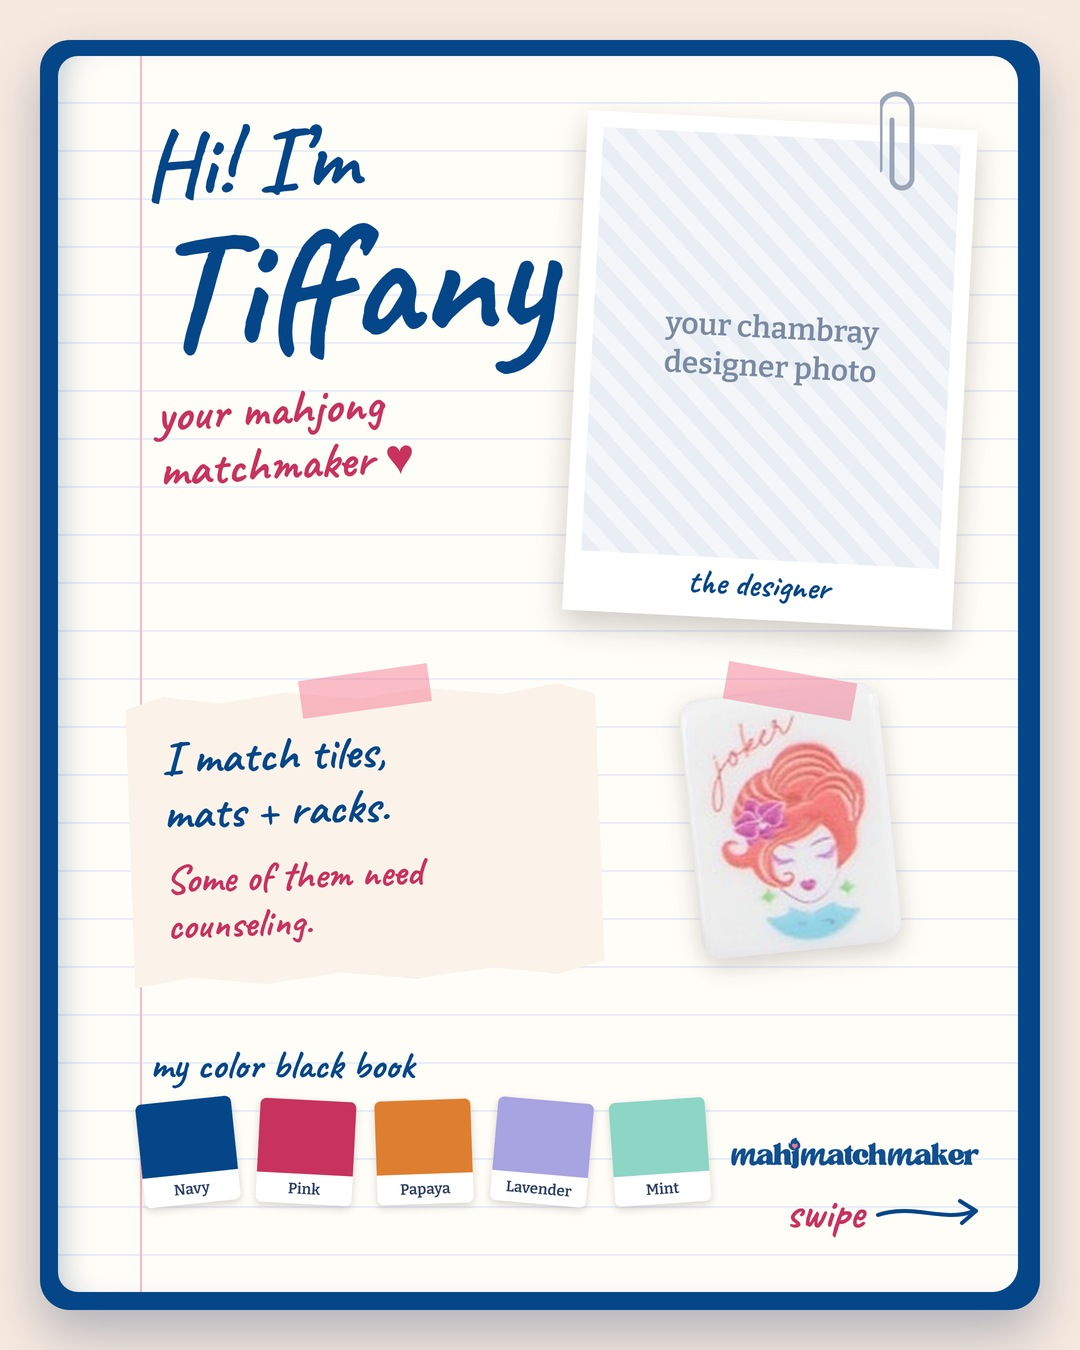
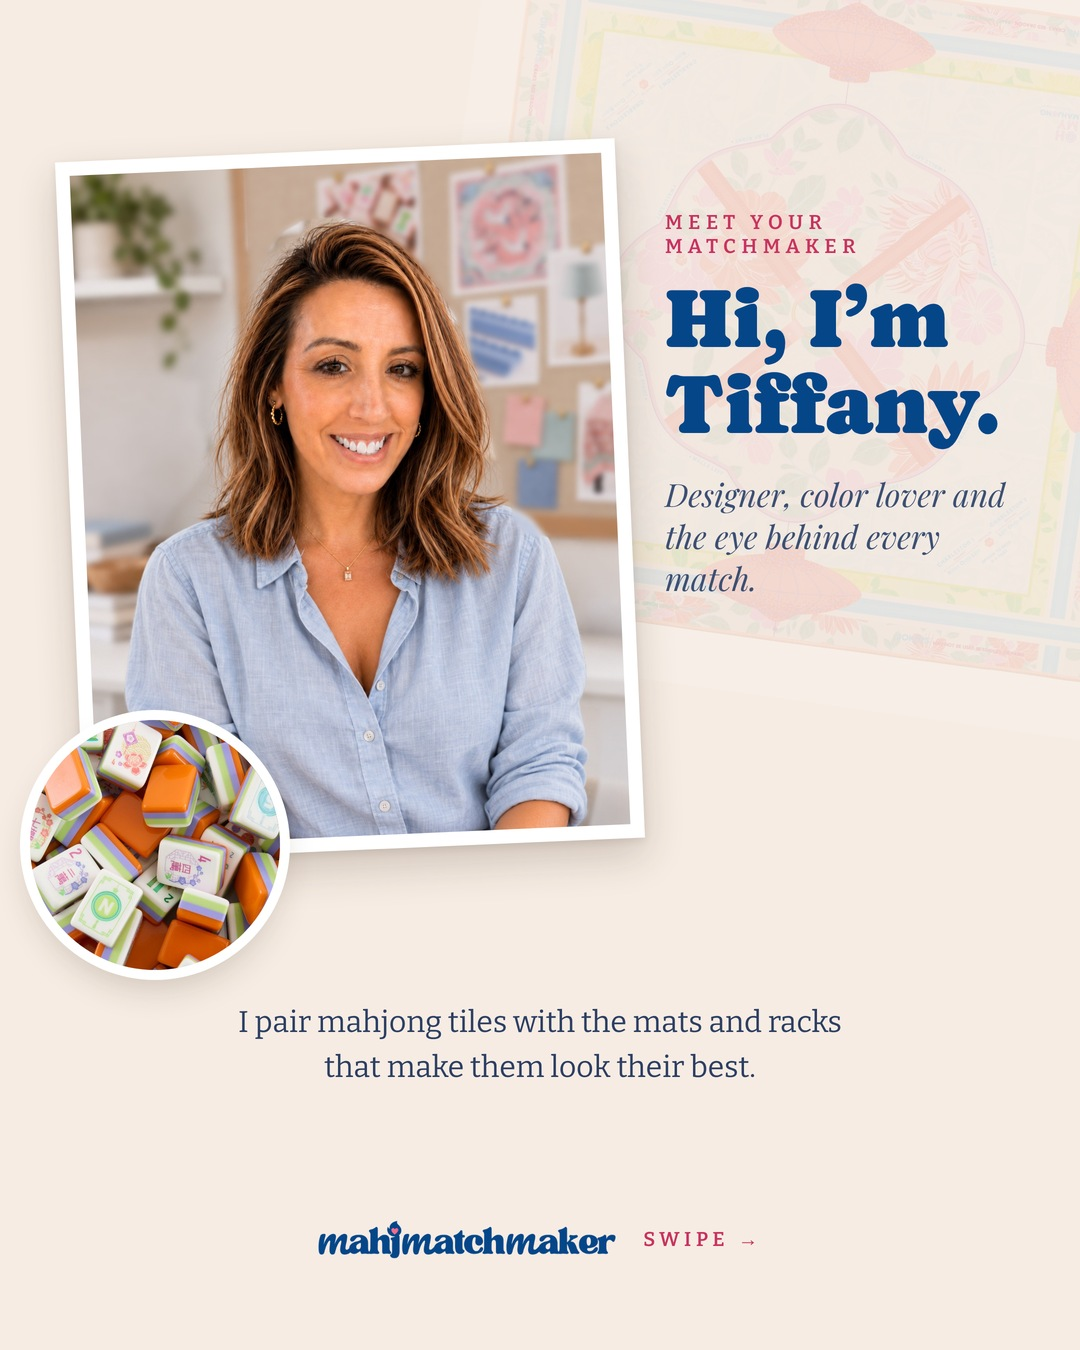
Pinned 'Meet your matchmaker' v2: photoreal editorial with chambray headshot
Claude-Session: https://claude.ai/code/session_014aKoC1ZMdZPjGkZ9kHhnLk

diff --git a/scripts/social/pinned/meet.html b/scripts/social/pinned/meet.html
@@ -1,0 +1,29 @@
+<!doctype html><html><head><meta charset=utf8><style>
+@font-face{font-family:Capra;src:url('file:///home/claude/mahjmatchmaker-data/scripts/social/tileprofile/fonts/Caprasimo.ttf')}
+@font-face{font-family:PF;font-style:italic;src:url('file:///home/claude/mahjmatchmaker-data/scripts/social/tileprofile/fonts/playfair-display-latin-400-italic.woff2')}
+@font-face{font-family:Bit;font-weight:600;src:url('file:///home/claude/mahjmatchmaker-data/scripts/social/tileprofile/fonts/bitter-latin-600-normal.woff2')}
+@font-face{font-family:Bit;font-weight:400;src:url('file:///home/claude/mahjmatchmaker-data/scripts/social/tileprofile/fonts/bitter-latin-400-normal.woff2')}
+*{margin:0;padding:0;box-sizing:border-box} body{width:1080px;height:1350px;overflow:hidden;background:#f6ece3}
+.print{position:absolute;background:#fff;padding:14px;box-shadow:0 18px 40px rgba(60,40,25,.20),0 3px 8px rgba(60,40,25,.10)}
+</style></head><body><div style="position:relative;width:1080px;height:1350px">
+<!-- soft mood-board backdrop: real mat photo, faded -->
+<div style="position:absolute;right:-120px;top:-60px;width:760px;height:760px;background:url(file:///home/claude/mahjmatchmaker-data/assets/launches/omm-vivienne-mat/01.jpg) center/cover;opacity:.14;transform:rotate(8deg);border-radius:30px"></div>
+<!-- portrait print -->
+<div class="print" style="left:70px;top:150px;width:560px;height:700px;transform:rotate(-2.5deg)">
+ <div style="width:100%;height:100%;background:url(file:///home/claude/mahjmatchmaker-data/assets/brand/headshot/tiffany-chambray-headshot-full.jpg) center 20%/cover"></div></div>
+<!-- real tile pile, round -->
+<div style="position:absolute;left:30px;top:720px;width:250px;height:250px;border-radius:50%;background:url(file:///home/claude/mahjmatchmaker-data/assets/tiles/album/papaya-spritz.jpg) center/cover;box-shadow:0 0 0 10px #fff,0 16px 34px rgba(60,40,25,.22)"></div>
+<!-- text -->
+<div style="position:absolute;left:665px;top:210px;right:50px">
+ <div style="font:600 20px Bit;letter-spacing:.28em;text-transform:uppercase;color:#c8325f">Meet your matchmaker</div>
+ <div style="font:400 84px/1.02 Capra;color:#054689;margin-top:18px">Hi, I&rsquo;m<br>Tiffany.</div>
+ <div style="font:italic 400 32px/1.3 PF;color:#3c4f73;margin-top:26px">Designer, color lover and the eye behind every match.</div>
+</div>
+<div style="position:absolute;left:90px;right:90px;top:1000px;text-align:center">
+ <div style="font:400 30px/1.5 Bit;color:#2c3e63">I pair mahjong tiles with the mats and racks<br>that make them look their best.</div>
+</div>
+<div style="position:absolute;left:0;right:0;bottom:90px;display:flex;justify-content:center;align-items:center;gap:26px">
+ <img src="file:///home/claude/mahjmatchmaker-data/assets/brand/mahjmatchmaker-wordmark-notag.png" style="width:300px">
+ <span style="font:600 20px Bit;letter-spacing:.24em;text-transform:uppercase;color:#c8325f">swipe &rarr;</span>
+</div>
+</div></body></html>

diff --git a/scripts/social/pinned/meet.py b/scripts/social/pinned/meet.py
@@ -1,0 +1,45 @@
+"""Pinned 'Meet your matchmaker' post, slide 1 (1080x1350), v2 (Tiffany Oct 20 1:30am): photoreal + editorial, her
+chambray designer headshot, real product photos only, brand type (Caprasimo / Playfair italic / Bitter). No handwriting
+font, no clip-art, no color chips."""
+import asyncio
+R='/home/claude/mahjmatchmaker-data'; u=lambda p:f'file://{R}/{p}'
+F=f'file://{R}/scripts/social/tileprofile/fonts'
+OUT=R+'/assets/social/pinned/meet-your-matchmaker-1.jpg'
+html=f"""<!doctype html><html><head><meta charset=utf8><style>
+@font-face{{font-family:Capra;src:url('{F}/Caprasimo.ttf')}}
+@font-face{{font-family:PF;font-style:italic;src:url('{F}/playfair-display-latin-400-italic.woff2')}}
+@font-face{{font-family:Bit;font-weight:600;src:url('{F}/bitter-latin-600-normal.woff2')}}
+@font-face{{font-family:Bit;font-weight:400;src:url('{F}/bitter-latin-400-normal.woff2')}}
+*{{margin:0;padding:0;box-sizing:border-box}} body{{width:1080px;height:1350px;overflow:hidden;background:#f6ece3}}
+.print{{position:absolute;background:#fff;padding:14px;box-shadow:0 18px 40px rgba(60,40,25,.20),0 3px 8px rgba(60,40,25,.10)}}
+</style></head><body><div style="position:relative;width:1080px;height:1350px">
+<!-- soft mood-board backdrop: real mat photo, faded -->
+<div style="position:absolute;right:-120px;top:-60px;width:760px;height:760px;background:url({u('assets/launches/omm-vivienne-mat/01.jpg')}) center/cover;opacity:.14;transform:rotate(8deg);border-radius:30px"></div>
+<!-- portrait print -->
+<div class="print" style="left:70px;top:150px;width:560px;height:700px;transform:rotate(-2.5deg)">
+ <div style="width:100%;height:100%;background:url({u('assets/brand/headshot/tiffany-chambray-headshot-full.jpg')}) center 20%/cover"></div></div>
+<!-- real tile pile, round -->
+<div style="position:absolute;left:30px;top:720px;width:250px;height:250px;border-radius:50%;background:url({u('assets/tiles/album/papaya-spritz.jpg')}) center/cover;box-shadow:0 0 0 10px #fff,0 16px 34px rgba(60,40,25,.22)"></div>
+<!-- text -->
+<div style="position:absolute;left:665px;top:210px;right:50px">
+ <div style="font:600 20px Bit;letter-spacing:.28em;text-transform:uppercase;color:#c8325f">Meet your matchmaker</div>
+ <div style="font:400 84px/1.02 Capra;color:#054689;margin-top:18px">Hi, I&rsquo;m<br>Tiffany.</div>
+ <div style="font:italic 400 32px/1.3 PF;color:#3c4f73;margin-top:26px">Designer, color lover and the eye behind every match.</div>
+</div>
+<div style="position:absolute;left:90px;right:90px;top:1000px;text-align:center">
+ <div style="font:400 30px/1.5 Bit;color:#2c3e63">I pair mahjong tiles with the mats and racks<br>that make them look their best.</div>
+</div>
+<div style="position:absolute;left:0;right:0;bottom:90px;display:flex;justify-content:center;align-items:center;gap:26px">
+ <img src="{u('assets/brand/mahjmatchmaker-wordmark-notag.png')}" style="width:300px">
+ <span style="font:600 20px Bit;letter-spacing:.24em;text-transform:uppercase;color:#c8325f">swipe &rarr;</span>
+</div>
+</div></body></html>"""
+hp=R+'/scripts/social/pinned/meet.html'; open(hp,'w').write(html)
+async def go():
+    from playwright.async_api import async_playwright
+    async with async_playwright() as p:
+        b=await p.chromium.launch(); pg=await b.new_page(viewport={'width':1080,'height':1350},device_scale_factor=2)
+        await pg.goto('file://'+hp); await pg.wait_for_timeout(1500); await pg.screenshot(path='/tmp/meet2x.png'); await b.close()
+    from PIL import Image
+    Image.open('/tmp/meet2x.png').convert('RGB').resize((1080,1350),Image.LANCZOS).save(OUT,quality=93)
+asyncio.run(go()); print(OUT)
